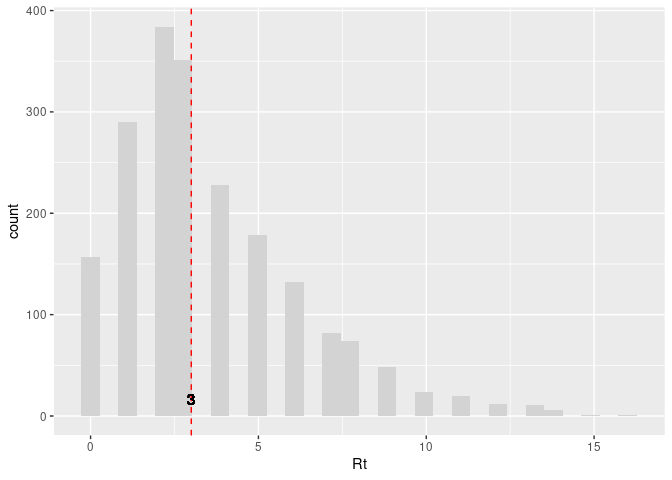
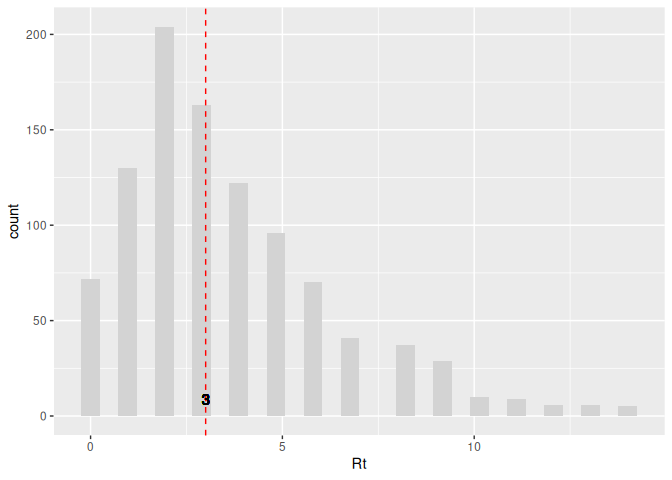
FIxing quarantine prodromal (they can move back)

diff --git a/school_quarantine/school_quarantine.hpp b/school_quarantine/school_quarantine.hpp
@@ -482,24 +482,31 @@ EPI_NEW_UPDATEFUN(update_quarantined_susceptible, int) {
 EPI_NEW_UPDATEFUN(update_quanrantined_prodromal, int) {
 
     GET_MODEL(model, m);
+
+    // Otherwise, these are moved to the prodromal period, if
+    // the quanrantine period is over.
+    int days_since = m->today() - model->day_detected[p->get_id()];
+
+    bool unquarantine =
+        (m->par("Quarantine days") <= days_since) ?
+        true: false;
     
     // If they develop rash, then they are isolated and contact
     // tracing is triggered.
     if (m->runif() < (1.0/m->par("Prodromal period")))
     {
+        if (unquarantine)
+            p->change_state(m, ModelSchoolQuarantine::PRODROMAL);
+    }
+    else
+    {
 
-        p->change_state(m, ModelSchoolQuarantine::ISOLATED);
-        return;
+        if (unquarantine)
+            p->change_state(m, ModelSchoolQuarantine::RASH);
+        else
+            p->change_state(m, ModelSchoolQuarantine::ISOLATED);        
 
     }
-
-    // Otherwise, these are moved to the prodromal period, if
-    // the quanrantine period is over.
-    int days_since = m->today() - model->day_detected[p->get_id()];
-    
-    if (days_since >= m->par("Quarantine days"))
-        p->change_state(m, ModelSchoolQuarantine::PRODROMAL);
-
 
 }
 

diff --git a/school_quarantine/canyon_grove_58_npi.md b/school_quarantine/canyon_grove_58_npi.md
@@ -1,5 +1,6 @@
 # School quarantine model
 
+
 ## School quarantine model for canyon_grove_58_npi
 
 This model is a discrete-time Agent-Based Model \[ABM\] that includes
@@ -34,18 +35,18 @@ the following features:
 
 The following is a raw list of the parameters included in the model:
 
-| Parameter             | Value | Reference                                                           |
-|:----------------------|------:|:--------------------------------------------------------------------|
-| Contact rate          |  2.38 | Negative binomial. Calibrated using R0=15 as a reference.           |
-| Incubation period     | 12.00 | Geometric + 1. Ref.: Jones and Baranowski (2019)                    |
-| Days undetected       |  2.00 | Fixed value.                                                        |
-| Prodromal period      |  3.00 | Geometric + 1. Ref.: Jones and Baranowski (2019)                    |
-| Quarantine days       | 21.00 | Utah Measles Disease Plan (“Measles Disease Plan” 2019).            |
-| Rash period           |  4.00 | Geometric + 1. Ref.: “Measles Disease Plan” (2019).                 |
-| Transmission rate     |  0.90 | Prob. of transmission fixed. Calibrated using R0=15 as a reference. |
-| Vax improved recovery |  0.50 | Fixed value.                                                        |
-| Vax efficacy          |  0.99 | Prob. efficacy fixed. Ref.: Liu et al. (2015).                      |
-| R0                    | 15.00 | Theoretical R0.                                                     |
+| Parameter | Value | Reference |
+|:---|---:|:---|
+| Contact rate | 2.38 | Negative binomial. Calibrated using R0=15 as a reference. |
+| Incubation period | 12.00 | Geometric + 1. Ref.: Jones and Baranowski (2019) |
+| Days undetected | 2.00 | Fixed value. |
+| Prodromal period | 3.00 | Geometric + 1. Ref.: Jones and Baranowski (2019) |
+| Quarantine days | 21.00 | Utah Measles Disease Plan (“Measles Disease Plan” 2019). |
+| Rash period | 4.00 | Geometric + 1. Ref.: “Measles Disease Plan” (2019). |
+| Transmission rate | 0.90 | Prob. of transmission fixed. Calibrated using R0=15 as a reference. |
+| Vax improved recovery | 0.50 | Fixed value. |
+| Vax efficacy | 0.99 | Prob. efficacy fixed. Ref.: Liu et al. (2015). |
+| R0 | 15.00 | Theoretical R0. |
 
 Other parameters can be found the corresponding parameters document
 [here](canyon_grove_58_npi_params.yaml).
@@ -56,8 +57,8 @@ This model simulates the spread of measles in a highschool. The
 highschool has students, and the simulation runs for days with one index
 case. The following is the output from the highschool model:
 
-    Using file: /tmp/RtmpPdypMf/file342e316fdb9a4d.yaml
-    Starting multiple runs (2000) using 10 thread(s)
+    Using file: /tmp/RtmpxJkdFM/file27065ce4c058.yaml
+    Starting multiple runs (1000) using 10 thread(s)
     _________________________________________________________________________
     _________________________________________________________________________
     ||||||||||||||||||||||||||||||||||||||||||||||||||||||||||||||||||||||||| done.
@@ -69,12 +70,12 @@ case. The following is the output from the highschool model:
     Population size     : 650
     Agents' data        : (none)
     Number of entities  : 0
-    Days (duration)     : 60 (of 60)
+    Days (duration)     : 120 (of 120)
     Number of viruses   : 1
-    Last run elapsed t  : 0.00s
-    Total elapsed t     : 1.00s (2000 runs)
-    Last run speed      : 7.26 million agents x day / second
-    Average run speed   : 74.42 million agents x day / second
+    Last run elapsed t  : 5.00ms
+    Total elapsed t     : 565.00ms (1000 runs)
+    Last run speed      : 13.30 million agents x day / second
+    Average run speed   : 137.97 million agents x day / second
     Rewiring            : off
 
     Global events:
@@ -101,10 +102,10 @@ case. The following is the output from the highschool model:
      - Vax efficacy           : 0.9900
      - Vax improved recovery  : 0.5000
 
-    Distribution of the population at time 60:
-      - ( 0) Susceptible             : 649 -> 635
-      - ( 1) Exposed                 :   1 -> 8
-      - ( 2) Prodromal               :   0 -> 1
+    Distribution of the population at time 120:
+      - ( 0) Susceptible             : 649 -> 647
+      - ( 1) Exposed                 :   1 -> 0
+      - ( 2) Prodromal               :   0 -> 0
       - ( 3) Rash                    :   0 -> 0
       - ( 4) Isolated                :   0 -> 0
       - ( 5) Quarantined Exposed     :   0 -> 0
@@ -112,19 +113,19 @@ case. The following is the output from the highschool model:
       - ( 7) Quarantined Prodromal   :   0 -> 0
       - ( 8) Quarantined Recovered   :   0 -> 0
       - ( 9) Hospitalized            :   0 -> 0
-      - (10) Recovered               :   0 -> 6
+      - (10) Recovered               :   0 -> 3
 
     Transition Probabilities:
-     - Susceptible              0.99  0.00  0.00  0.00  0.00  0.00  0.01  0.00  0.00  0.00  0.00
-     - Exposed                  0.00  0.87  0.08  0.00  0.00  0.06  0.00  0.00  0.00  0.00  0.00
-     - Prodromal                0.00  0.00  0.75  0.17  0.00  0.00  0.00  0.08  0.00  0.00  0.00
-     - Rash                     0.00  0.00  0.00  0.00  0.00  0.00  0.00  0.00  0.50  0.00  0.50
-     - Isolated                 0.00  0.00  0.00  0.00  0.33  0.00  0.00  0.00  0.00  0.33  0.33
-     - Quarantined Exposed      0.00  0.03  0.00  0.00  0.00  0.92  0.00  0.05  0.00  0.00  0.00
+     - Susceptible              1.00  0.00  0.00  0.00  0.00  0.00  0.00  0.00  0.00  0.00  0.00
+     - Exposed                  0.00  0.75  0.08  0.00  0.00  0.17  0.00  0.00  0.00  0.00  0.00
+     - Prodromal                0.00  0.00  0.50  0.50  0.00  0.00  0.00  0.00  0.00  0.00  0.00
+     - Rash                     0.00  0.00  0.00  0.00  0.00  0.00  0.00  0.00  1.00  0.00  0.00
+     - Isolated                 0.00  0.00  0.00  0.00  0.00  0.00  0.00  0.00  0.00  1.00  0.00
+     - Quarantined Exposed      0.00  0.00  0.00  0.00  0.00  0.88  0.00  0.12  0.00  0.00  0.00
      - Quarantined Susceptible  0.05  0.00  0.00  0.00  0.00  0.00  0.95  0.00  0.00  0.00  0.00
-     - Quarantined Prodromal    0.00  0.00  0.00  0.00  0.50  0.00  0.00  0.50  0.00  0.00  0.00
+     - Quarantined Prodromal    0.00  0.00  0.00  0.00  1.00  0.00  0.00  0.00  0.00  0.00  0.00
      - Quarantined Recovered    0.00  0.00  0.00  0.00  0.00  0.00  0.00  0.00  0.95  0.00  0.05
-     - Hospitalized             0.00  0.00  0.00  0.00  0.00  0.00  0.00  0.00  0.00  0.82  0.18
+     - Hospitalized             0.00  0.00  0.00  0.00  0.00  0.00  0.00  0.00  0.00  0.88  0.12
      - Recovered                0.00  0.00  0.00  0.00  0.00  0.00  0.00  0.00  0.00  0.00  1.00
 
 ## Flowchart
@@ -145,29 +146,30 @@ flowchart LR
     s8[Rash]
     s9[Recovered]
     s10[Susceptible]
-    s0 -->|0.071910| s3
-    s0 -->|0.118605| s4
-    s0 -->|0.010591| s5
-    s1 -->|0.142264| s9
-    s2 -->|0.160762| s1
-    s2 -->|0.627896| s9
-    s3 -->|0.032829| s2
-    s3 -->|0.060318| s5
-    s3 -->|0.303334| s8
-    s4 -->|0.012203| s0
-    s4 -->|0.001078| s3
-    s4 -->|0.082546| s5
-    s5 -->|0.332056| s2
-    s5 -->|0.010507| s3
-    s6 -->|0.039376| s9
-    s7 -->|0.039833| s10
-    s8 -->|0.162988| s1
-    s8 -->|0.112903| s2
-    s8 -->|0.318336| s6
-    s8 -->|0.311885| s9
-    s10 -->|0.000278| s0
-    s10 -->|0.000063| s4
-    s10 -->|0.010911| s7
+    s0 -->|0.072792| s3
+    s0 -->|0.123105| s4
+    s0 -->|0.010838| s5
+    s1 -->|0.142030| s9
+    s2 -->|0.155983| s1
+    s2 -->|0.635533| s9
+    s3 -->|0.034577| s2
+    s3 -->|0.065383| s5
+    s3 -->|0.295949| s8
+    s4 -->|0.014944| s0
+    s4 -->|0.001494| s3
+    s4 -->|0.082525| s5
+    s5 -->|0.660018| s2
+    s5 -->|0.006233| s3
+    s5 -->|0.012597| s8
+    s6 -->|0.045911| s9
+    s7 -->|0.045855| s10
+    s8 -->|0.168270| s1
+    s8 -->|0.112415| s2
+    s8 -->|0.319409| s6
+    s8 -->|0.308848| s9
+    s10 -->|0.000178| s0
+    s10 -->|0.000046| s4
+    s10 -->|0.007526| s7
 
 ```
 
@@ -177,14 +179,14 @@ Estimating the outbreak size:
 
 |   Size | Probability    | Likely size (if \> Size) |
 |-------:|:---------------|:-------------------------|
-|  2.000 | 0.92           | \[2.00, 36.00\]          |
-|  5.000 | 0.70           | \[5.00, 38.00\]          |
-| 10.000 | 0.45           | \[10.00, 42.00\]         |
-| 20.000 | 0.17           | \[20.00, 47.00\]         |
-|  8.000 | Median (50%\>) | \[9.00, 41.00\]          |
-| 11.145 | Mean (average) | \[12.00, 43.00\]         |
+|  2.000 | 0.93           | \[2.00, 47.00\]          |
+|  5.000 | 0.74           | \[5.00, 49.00\]          |
+| 10.000 | 0.54           | \[10.00, 55.52\]         |
+| 20.000 | 0.29           | \[20.00, 60.40\]         |
+| 11.000 | Median (50%\>) | \[12.00, 56.00\]         |
+| 15.048 | Mean (average) | \[16.00, 57.32\]         |
 
-Likely sizes of the outbreak based on 2000 simulations.
+Likely sizes of the outbreak based on 1000 simulations.
 
 ![](canyon_grove_58_npi_files/figure-commonmark/print-histogram-1.png)
 
@@ -207,7 +209,7 @@ Althougth the model was calibrated with an R0 of 15, adding vaccination,
 a smaller population, and quarantine changes (lowers) the reproductive
 number:
 
-    Mean Rt:3.585
+    Mean Rt:3.678
 
     Median Rt:3
 
@@ -215,7 +217,8 @@ number:
 
 # References
 
-<div id="refs" class="references csl-bib-body hanging-indent">
+<div id="refs" class="references csl-bib-body hanging-indent"
+entry-spacing="0">
 
 <div id="ref-jones2019measles" class="csl-entry">
 

diff --git a/school_quarantine/canyon_grove_58.md b/school_quarantine/canyon_grove_58.md
@@ -57,7 +57,7 @@ This model simulates the spread of measles in a highschool. The
 highschool has students, and the simulation runs for days with one index
 case. The following is the output from the highschool model:
 
-    Using file: /tmp/RtmpOdKNwM/file39b674d01c6.yaml
+    Using file: /tmp/Rtmplpwk4J/file1dc46873a799.yaml
     Starting multiple runs (2000) using 10 thread(s)
     _________________________________________________________________________
     _________________________________________________________________________
@@ -72,10 +72,10 @@ case. The following is the output from the highschool model:
     Number of entities  : 0
     Days (duration)     : 60 (of 60)
     Number of viruses   : 1
-    Last run elapsed t  : 3.00ms
-    Total elapsed t     : 625.00ms (2000 runs)
-    Last run speed      : 10.79 million agents x day / second
-    Average run speed   : 124.74 million agents x day / second
+    Last run elapsed t  : 2.00ms
+    Total elapsed t     : 613.00ms (2000 runs)
+    Last run speed      : 13.42 million agents x day / second
+    Average run speed   : 127.17 million agents x day / second
     Rewiring            : off
 
     Global events:

diff --git a/school_quarantine/README.md b/school_quarantine/README.md
@@ -47,5 +47,5 @@ flowchart LR
 - Add details about sampling from multiple viruses for update susceptible.
 - Think about perfect detection, right now, if "Days undetected" == 0, then it's doing nothing.
 - ~~Checkout update of rash who recovers but moves to quarantine.~~
-- Double check the prodromal period move in update_quarantined_prodromal.
+~~- Double check the prodromal period move in update_quarantined_prodromal.~~
 - Update isolated should also look at the quarantine days.
